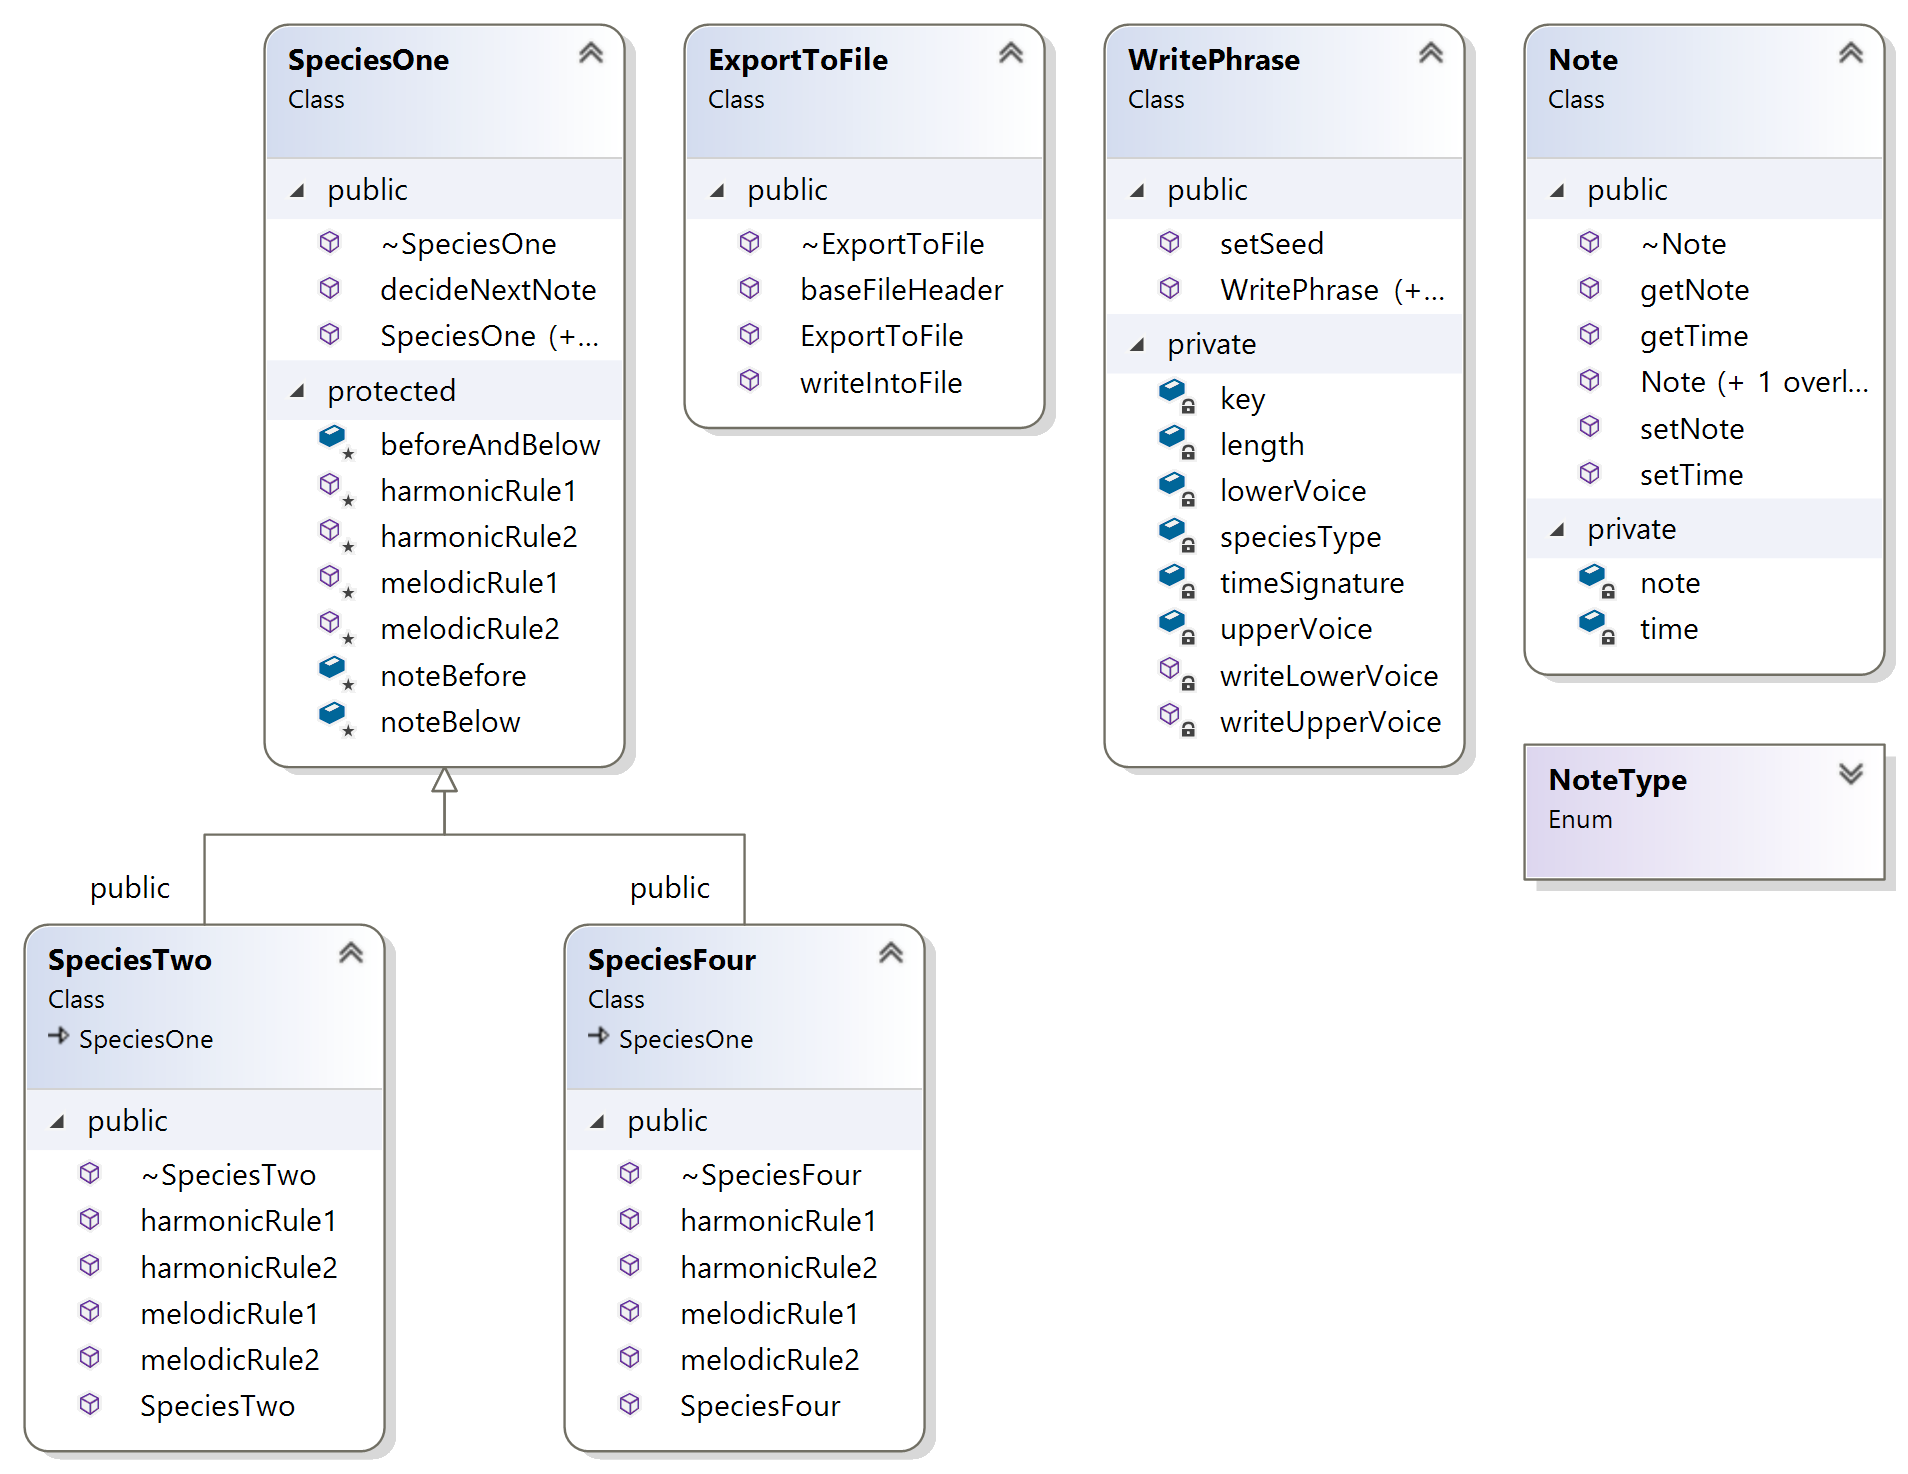
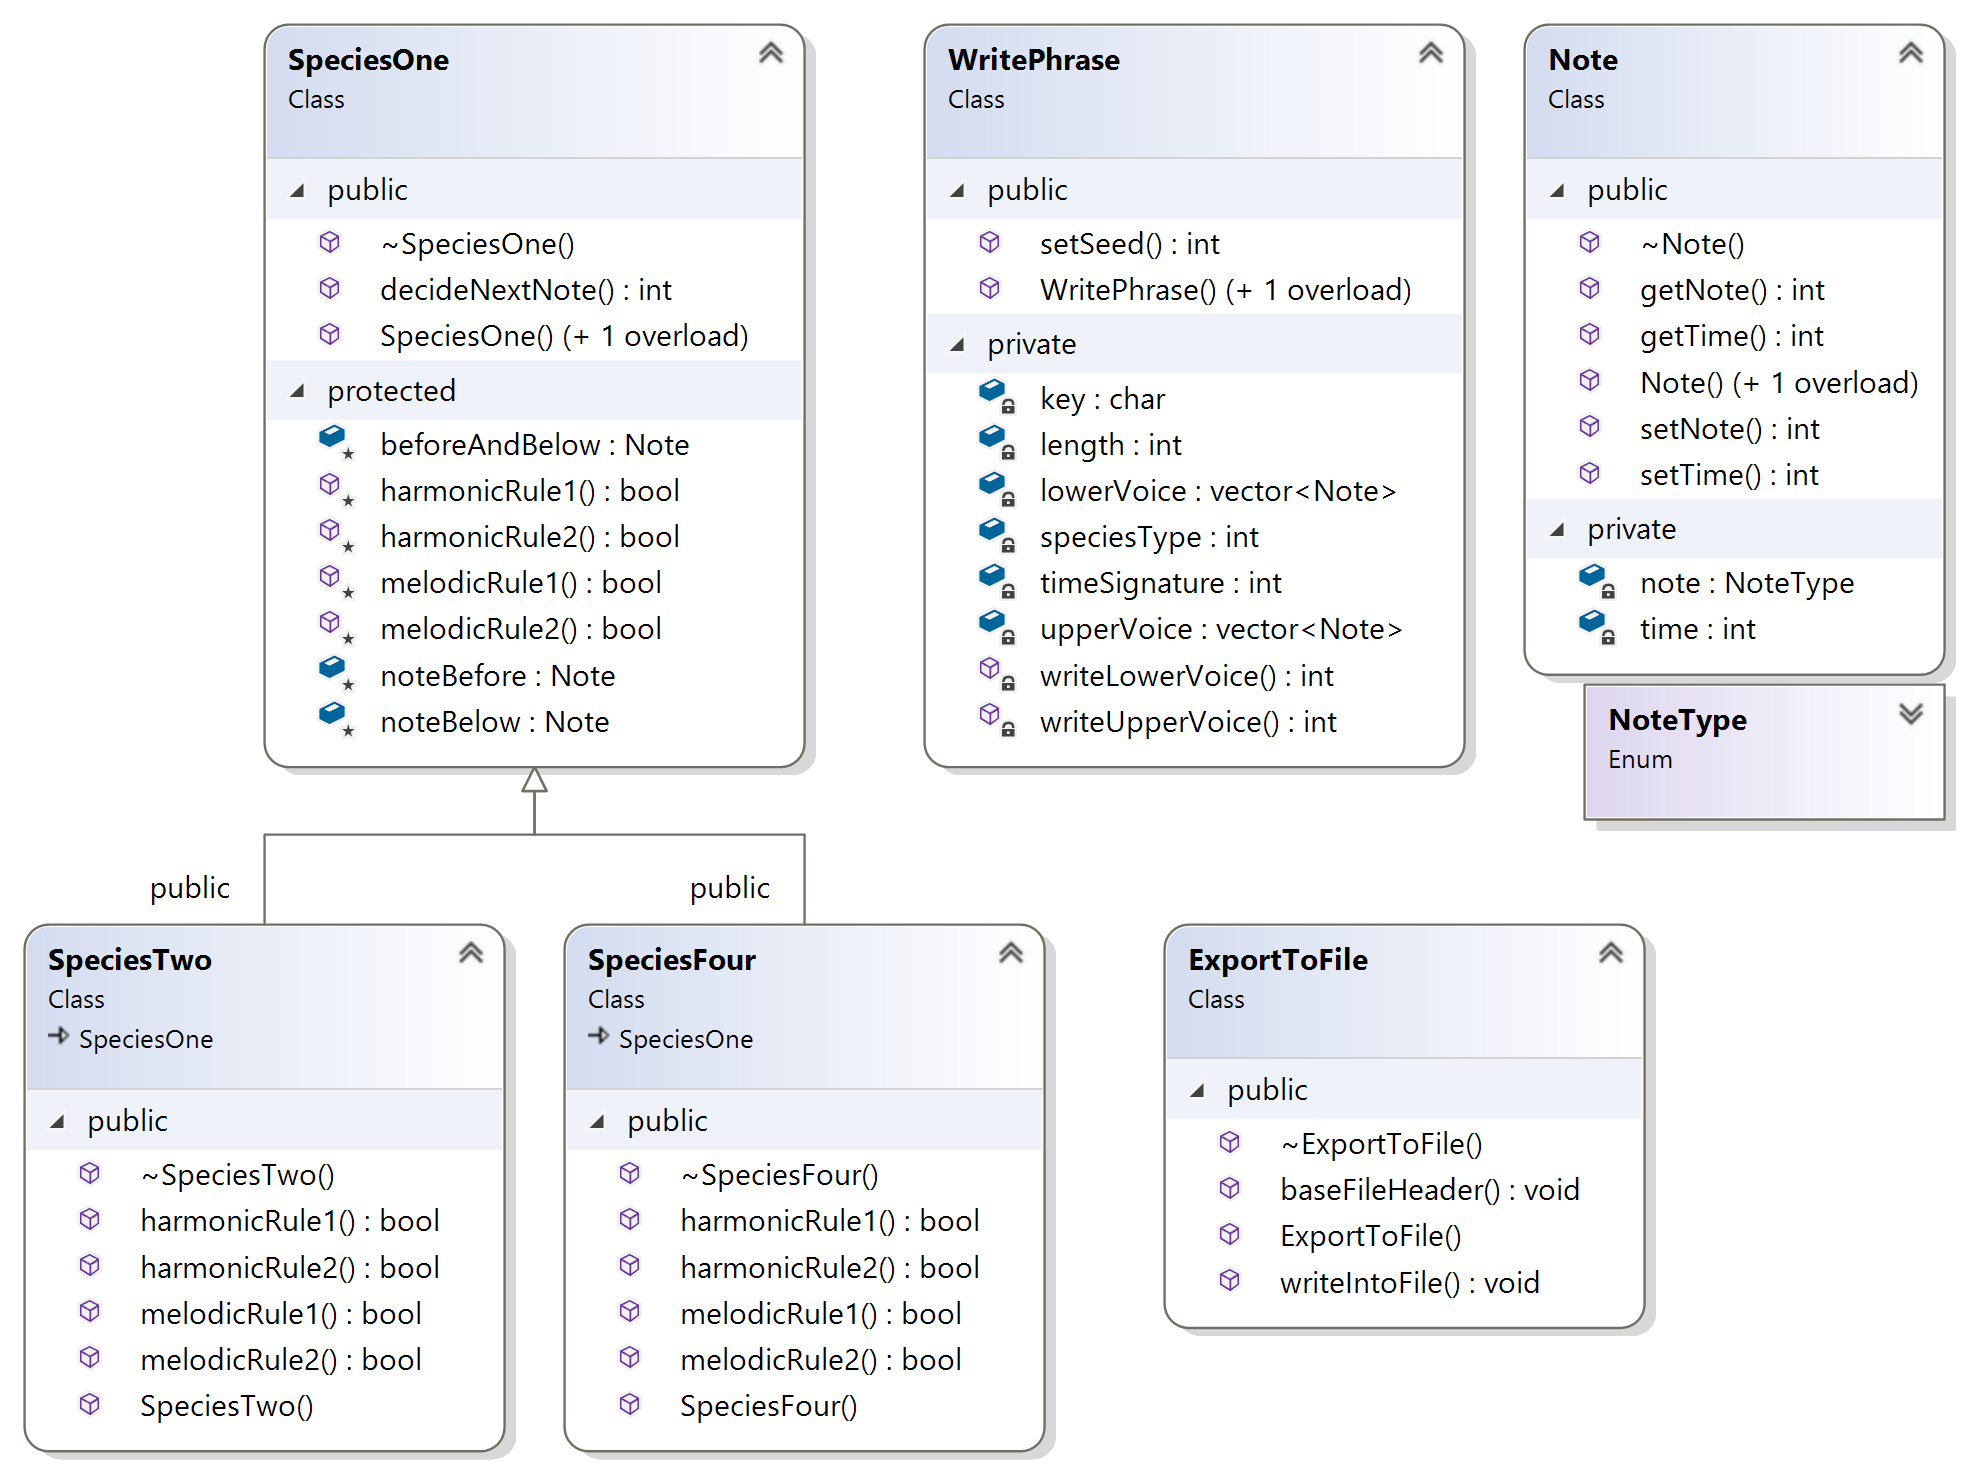
cleaned up files

diff --git a/Coding Files/Music Project/Music Project/SpeciesFour.h b/Coding Files/Music Project/Music Project/SpeciesFour.h
@@ -6,6 +6,7 @@ class SpeciesFour :
 public:
 	SpeciesFour();
 	~SpeciesFour();
+	void decideNextNote();
 	bool melodicRule1();
 	bool melodicRule2();
 	bool harmonicRule1();

diff --git a/Coding Files/Music Project/Music Project/SpeciesTwo.h b/Coding Files/Music Project/Music Project/SpeciesTwo.h
@@ -6,6 +6,7 @@ class SpeciesTwo :
 public:
 	SpeciesTwo();
 	~SpeciesTwo();
+	void decideNextNote();
 	bool melodicRule1();
 	bool melodicRule2();
 	bool harmonicRule1();
